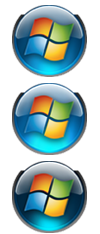
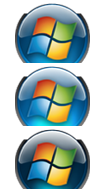
Revert "Vista orb fixes"

diff --git a/RetroBar/Themes/Windows Vista Aero.xaml b/RetroBar/Themes/Windows Vista Aero.xaml
@@ -1064,6 +1064,8 @@
                                                     Viewbox="0,0,1,0.3333" />
                                     </Setter.Value>
                                 </Setter>
+                                <Setter Property="Margin" Value="0,-5,0,0" />
+                                <Setter Property="Height" Value="35" />
                             </MultiDataTrigger.Setters>
                         </MultiDataTrigger>
                         <MultiDataTrigger>
@@ -1081,7 +1083,7 @@
                                     <Setter.Value>
                                         <ImageBrush ImageSource="{DynamicResource StartButtonImageBottomScaled}"
                                                     ViewboxUnits="RelativeToBoundingBox"
-                                                    Viewbox="0,0,1,0.3333" />
+                                                    Viewbox="0,0.01,1,0.32" />
                                     </Setter.Value>
                                 </Setter>
                             </MultiDataTrigger.Setters>
@@ -1123,7 +1125,7 @@
                                     <Setter.Value>
                                         <ImageBrush ImageSource="{DynamicResource StartButtonImageBottomScaled}"
                                                     ViewboxUnits="RelativeToBoundingBox"
-                                                    Viewbox="0,0.3333,1,0.3333" />
+                                                    Viewbox="0,0.3433,1,0.32" />
                                     </Setter.Value>
                                 </Setter>
                             </MultiDataTrigger.Setters>
@@ -1165,7 +1167,7 @@
                                     <Setter.Value>
                                         <ImageBrush ImageSource="{DynamicResource StartButtonImageBottomScaled}"
                                                     ViewboxUnits="RelativeToBoundingBox"
-                                                    Viewbox="0,0.6666,1,0.3333" />
+                                                    Viewbox="0,0.6766,1,0.32" />
                                     </Setter.Value>
                                 </Setter>
                             </MultiDataTrigger.Setters>
@@ -1207,7 +1209,7 @@
                                     <Setter.Value>
                                         <ImageBrush ImageSource="{DynamicResource StartButtonImageBottomScaled}"
                                                     ViewboxUnits="RelativeToBoundingBox"
-                                                    Viewbox="0,0.6666,1,0.3333" />
+                                                    Viewbox="0,0.6766,1,0.32" />
                                     </Setter.Value>
                                 </Setter>
                             </MultiDataTrigger.Setters>
@@ -1228,6 +1230,8 @@
                                                     Viewbox="0,0,1,0.3333" />
                                     </Setter.Value>
                                 </Setter>
+                                <Setter Property="Margin" Value="0,0,0,-6" />
+                                <Setter Property="Height" Value="36" />
                             </MultiDataTrigger.Setters>
                         </MultiDataTrigger>
                         <MultiDataTrigger>
@@ -1245,7 +1249,7 @@
                                     <Setter.Value>
                                         <ImageBrush ImageSource="{DynamicResource StartButtonImageTopScaled}"
                                                     ViewboxUnits="RelativeToBoundingBox"
-                                                    Viewbox="0,0,1,0.3333" />
+                                                    Viewbox="0,0,1,0.32" />
                                     </Setter.Value>
                                 </Setter>
                             </MultiDataTrigger.Setters>
@@ -1287,7 +1291,7 @@
                                     <Setter.Value>
                                         <ImageBrush ImageSource="{DynamicResource StartButtonImageTopScaled}"
                                                     ViewboxUnits="RelativeToBoundingBox"
-                                                    Viewbox="0,0.3333,1,0.3333" />
+                                                    Viewbox="0,0.3333,1,0.32" />
                                     </Setter.Value>
                                 </Setter>
                             </MultiDataTrigger.Setters>
@@ -1329,7 +1333,7 @@
                                     <Setter.Value>
                                         <ImageBrush ImageSource="{DynamicResource StartButtonImageTopScaled}"
                                                     ViewboxUnits="RelativeToBoundingBox"
-                                                    Viewbox="0,0.6666,1,0.3333" />
+                                                    Viewbox="0,0.6666,1,0.32" />
                                     </Setter.Value>
                                 </Setter>
                             </MultiDataTrigger.Setters>
@@ -1371,7 +1375,7 @@
                                     <Setter.Value>
                                         <ImageBrush ImageSource="{DynamicResource StartButtonImageTopScaled}"
                                                     ViewboxUnits="RelativeToBoundingBox"
-                                                    Viewbox="0,0.6666,1,0.3333" />
+                                                    Viewbox="0,0.6666,1,0.32" />
                                     </Setter.Value>
                                 </Setter>
                             </MultiDataTrigger.Setters>

diff --git a/RetroBar/Controls/FloatingStartButton.xaml b/RetroBar/Controls/FloatingStartButton.xaml
@@ -1,8 +1,6 @@
 <Window x:Class="RetroBar.Controls.FloatingStartButton"
         xmlns="http://schemas.microsoft.com/winfx/2006/xaml/presentation"
         xmlns:x="http://schemas.microsoft.com/winfx/2006/xaml"
-        xmlns:controls="clr-namespace:RetroBar.Controls"
-        xmlns:utilities="clr-namespace:RetroBar.Utilities"
         Title=""
         Style="{DynamicResource FloatingStartButtonWindow}"
         SourceInitialized="Window_SourceInitialized"
@@ -11,15 +9,10 @@
         WindowStyle="None"
         AllowsTransparency="True"
         FlowDirection="{DynamicResource flow_direction}">
-    <controls:StartButton x:Name="Start"
-                          Host="{Binding Host}"
-                          StartMenuMonitor="{Binding StartMenuMonitor}"
-                          IsFloating="True">
-        <controls:StartButton.LayoutTransform>
-            <ScaleTransform ScaleX="{Binding Source={x:Static utilities:Settings.Instance}, Path=TaskbarScale}"
-                            ScaleY="{Binding Source={x:Static utilities:Settings.Instance}, Path=TaskbarScale}"
-                            CenterX="0"
-                            CenterY="0" />
-        </controls:StartButton.LayoutTransform>
-    </controls:StartButton>
+    <Rectangle Name="ViewRect">
+        <Rectangle.RenderTransform>
+            <TranslateTransform X="{Binding Path=Host.AutoHideElement.RenderTransform.(TranslateTransform.X)}"
+                                Y="{Binding Path=Host.AutoHideElement.RenderTransform.(TranslateTransform.Y)}" />
+        </Rectangle.RenderTransform>
+    </Rectangle>
 </Window>

diff --git a/RetroBar/Controls/FloatingStartButton.xaml.cs b/RetroBar/Controls/FloatingStartButton.xaml.cs
@@ -1,30 +1,20 @@
-using ManagedShell.AppBar;
-using ManagedShell.Common.Helpers;
+using ManagedShell.Common.Helpers;
 using ManagedShell.Interop;
 using System;
-using System.ComponentModel;
 using System.Windows;
-using System.Windows.Controls;
 using System.Windows.Interop;
+using System.Windows.Media;
 
 namespace RetroBar.Controls
 {
     /// <summary>
     /// Interaction logic for FloatingStartButton.xaml
     /// </summary>
-    public partial class FloatingStartButton : Window, INotifyPropertyChanged
+    public partial class FloatingStartButton : Window
     {
         private WindowInteropHelper helper;
         private NativeMethods.Rect startupRect;
 
-        private StartButton MainButton => (StartButton)DataContext;
-
-        public bool IsScaled => MainButton.Host.IsScaled;
-        public int Rows => MainButton.Host.Rows;
-        public AppBarEdge AppBarEdge => MainButton.Host.AppBarEdge;
-        public Orientation Orientation => MainButton.Host.Orientation;
-
-        public event PropertyChangedEventHandler PropertyChanged;
         public IntPtr Handle;
 
         public FloatingStartButton(StartButton mainButton, NativeMethods.Rect rect)
@@ -35,15 +25,9 @@ namespace RetroBar.Controls
             InitializeComponent();
             startupRect = rect;
 
-            if (mainButton.Host != null)
-            {
-                mainButton.Host.PropertyChanged += Host_PropertyChanged;
-            }
-        }
-
-        private void Host_PropertyChanged(object sender, PropertyChangedEventArgs e)
-        {
-            PropertyChanged?.Invoke(this, e);
+            // Render the existing start button control as the ViewRect fill
+            VisualBrush visualBrush = new VisualBrush(mainButton.Start);
+            ViewRect.Fill = visualBrush;
         }
 
         private void Window_SourceInitialized(object sender, EventArgs e)
@@ -56,7 +40,9 @@ namespace RetroBar.Controls
             HwndSource source = HwndSource.FromHwnd(Handle);
             source.AddHook(WndProc);
 
-            WindowHelper.HideWindowFromTasks(Handle);
+            // Makes click-through by adding transparent style, hide from taskbar
+            NativeMethods.SetWindowLong(Handle, NativeMethods.WindowLongFlags.GWL_EXSTYLE, (NativeMethods.GetWindowLong(Handle, NativeMethods.WindowLongFlags.GWL_EXSTYLE) & ~(int)NativeMethods.ExtendedWindowStyles.WS_EX_APPWINDOW) | (int)NativeMethods.ExtendedWindowStyles.WS_EX_TOOLWINDOW | (int)NativeMethods.ExtendedWindowStyles.WS_EX_TRANSPARENT);
+
             WindowHelper.ExcludeWindowFromPeek(Handle);
 
             SetPosition(startupRect);
@@ -64,11 +50,11 @@ namespace RetroBar.Controls
 
         private IntPtr WndProc(IntPtr hwnd, int msg, IntPtr wParam, IntPtr lParam, ref bool handled)
         {
-            // Prevent window activation on click so the taskbar/start menu doesn't lose focus
-            if (msg == (int)NativeMethods.WM.MOUSEACTIVATE)
+            // Make transparent to hit tests
+            if (msg == (int)NativeMethods.WM.NCHITTEST)
             {
                 handled = true;
-                return (IntPtr)NativeMethods.MA_NOACTIVATE;
+                return (IntPtr)(-1);
             }
 
             if (msg == (int)NativeMethods.WM.WINDOWPOSCHANGING)
@@ -94,7 +80,6 @@ namespace RetroBar.Controls
 
         internal void SetPosition(NativeMethods.Rect rect)
         {
-            startupRect = rect;
             NativeMethods.Rect currentRect;
             NativeMethods.GetWindowRect(Handle, out currentRect);
 
@@ -105,22 +90,6 @@ namespace RetroBar.Controls
 
             int swp = (int)NativeMethods.SetWindowPosFlags.SWP_NOZORDER | (int)NativeMethods.SetWindowPosFlags.SWP_NOACTIVATE;
             NativeMethods.SetWindowPos(Handle, IntPtr.Zero, rect.Left, rect.Top, rect.Width, rect.Height, swp);
-
-            // Clip the window to the monitor bounds to prevent bleeding into adjacent screens
-            if (MainButton.Host?.Screen != null)
-            {
-                var bounds = MainButton.Host.Screen.Bounds;
-                int clipLeft = Math.Max(0, bounds.Left - rect.Left);
-                int clipTop = Math.Max(0, bounds.Top - rect.Top);
-                int clipRight = Math.Min(rect.Width, bounds.Right - rect.Left);
-                int clipBottom = Math.Min(rect.Height, bounds.Bottom - rect.Top);
-
-                if (clipLeft < clipRight && clipTop < clipBottom)
-                {
-                    IntPtr hRgn = NativeMethods.CreateRectRgn(clipLeft, clipTop, clipRight, clipBottom);
-                    NativeMethods.SetWindowRgn(Handle, hRgn, true);
-                }
-            }
         }
     }
 }

diff --git a/RetroBar/Controls/StartButton.xaml.cs b/RetroBar/Controls/StartButton.xaml.cs
@@ -31,22 +31,6 @@ namespace RetroBar.Controls
             set { SetValue(HostProperty, value); }
         }
 
-        public static DependencyProperty IsFloatingProperty = DependencyProperty.Register(nameof(IsFloating), typeof(bool), typeof(StartButton), new PropertyMetadata(false, OnIsFloatingChanged));
-
-        private static void OnIsFloatingChanged(DependencyObject d, DependencyPropertyChangedEventArgs e)
-        {
-            if (d is StartButton startButton && (bool)e.NewValue)
-            {
-                startButton.Start.Margin = new Thickness(0);
-            }
-        }
-
-        public bool IsFloating
-        {
-            get { return (bool)GetValue(IsFloatingProperty); }
-            set { SetValue(IsFloatingProperty, value); }
-        }
-
         public StartMenuMonitor StartMenuMonitor
         {
             get { return (StartMenuMonitor)GetValue(StartMenuMonitorProperty); }
@@ -235,8 +219,6 @@ namespace RetroBar.Controls
 
         private void openFloatingStart()
         {
-            if (IsFloating) return;
-
             bool useFloatingStartButton = Application.Current.FindResource("UseFloatingStartButton") as bool? ?? false;
 
             if (!useFloatingStartButton || Visibility != Visibility.Visible) return;
@@ -250,9 +232,6 @@ namespace RetroBar.Controls
             {
                 showFloatingStart();
             }
-
-            // Hide the original so only the floating orb is visible.
-            Opacity = 0;
         }
 
         private void showFloatingStart()
@@ -265,7 +244,6 @@ namespace RetroBar.Controls
 
         private void hideFloatingStart()
         {
-            if (IsFloating) return;
             if (floatingStartButton == null) return;
 
             floatingStartButton.Visibility = Visibility.Hidden;
@@ -275,7 +253,6 @@ namespace RetroBar.Controls
         {
             floatingStartButton?.Close();
             floatingStartButton = null;
-            Opacity = 1;
         }
 
         private NativeMethods.Rect getButtonRect()
@@ -317,15 +294,6 @@ namespace RetroBar.Controls
                 NativeMethods.SetWindowPos(
                 floatingStartButton.Handle,
                 Host.Handle,
-                0, 0, 0, 0,
-                (int)NativeMethods.SetWindowPosFlags.SWP_NOSIZE | (int)NativeMethods.SetWindowPosFlags.SWP_NOMOVE | (int)NativeMethods.SetWindowPosFlags.SWP_NOACTIVATE);
-            }
-            else
-            {
-                // Ensure the floating start button is truly topmost when restoring.
-                NativeMethods.SetWindowPos(
-                floatingStartButton.Handle,
-                (IntPtr)NativeMethods.WindowZOrder.HWND_TOPMOST,
                 0, 0, 0, 0,
                 (int)NativeMethods.SetWindowPosFlags.SWP_NOSIZE | (int)NativeMethods.SetWindowPosFlags.SWP_NOMOVE | (int)NativeMethods.SetWindowPosFlags.SWP_NOACTIVATE);
             }

diff --git a/RetroBar/Taskbar.xaml.cs b/RetroBar/Taskbar.xaml.cs
@@ -109,7 +109,7 @@ namespace RetroBar
             {
                 if (_fullScreenHelper.FullScreenApps[i].hWnd == e.Window.Handle)
                 {
-                    OnFullScreenEnter(_fullScreenHelper.FullScreenApps[i]);
+                    base.OnFullScreenEnter(_fullScreenHelper.FullScreenApps[i]);
                     return;
                 }
             }
@@ -123,7 +123,7 @@ namespace RetroBar
             }
 
             _fullScreenSuppressed = true;
-            OnFullScreenLeave();
+            base.OnFullScreenLeave();
         }
 
         private void Settings_PropertyChanged(object sender, PropertyChangedEventArgs e)
